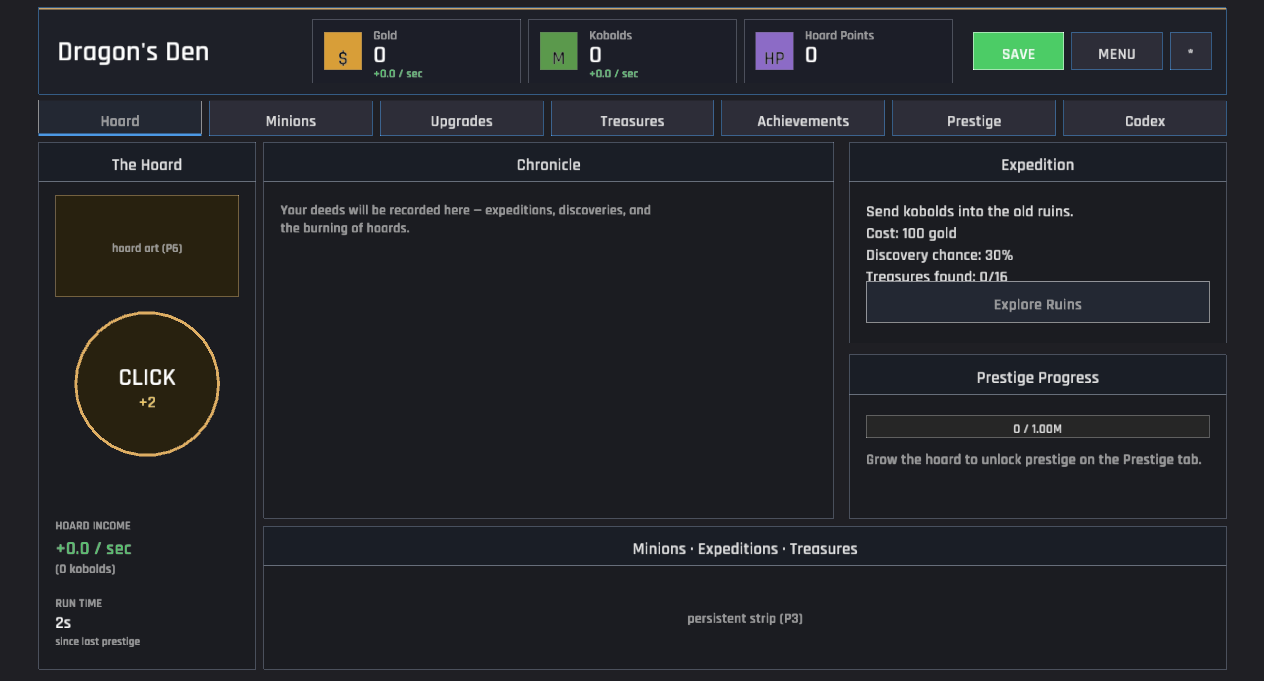
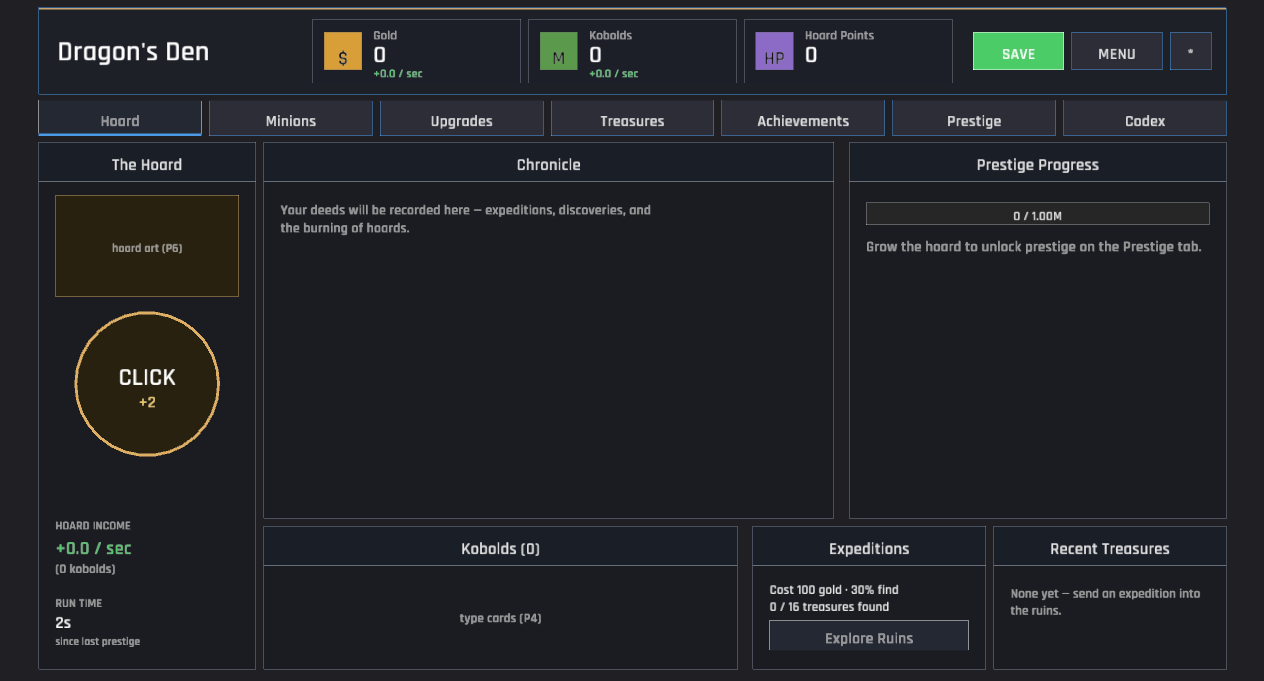
UI redesign P3: persistent bottom strip
Add ui/bottom_bar.rs: a persistent three-column strip — minions summary (typed
hire cards deferred to P4), the Expeditions launcher (moved off the Hoard tab so
it is reachable from any tab), and a Recent Treasures list (newest-first,
rarity-tagged via treasures::rarity_color). The Hoard tab side column is now just
Prestige Progress. Replaces the P1 bottom placeholder.

diff --git a/src/ui/bottom_bar.rs b/src/ui/bottom_bar.rs
@@ -1,0 +1,120 @@
+//! Persistent bottom strip (UI redesign P3 — see `UI_REDESIGN_PLAN.md`).
+//!
+//! Always visible under the center: a minions summary (type cards land in P4),
+//! the expedition launcher, and the most recent treasure finds.
+
+use crate::simulation::idle_number::format_amount;
+use crate::ui::treasures::rarity_color;
+use crate::ui::{self, GameplayCtx, UiAction};
+use macroquad::prelude::*;
+use macroquad_toolkit::prelude::*;
+use macroquad_toolkit::ui::draw_ui_text_ex;
+
+const GAP: f32 = 8.0;
+
+pub fn draw(ctx: &GameplayCtx<'_>, rect: Rect, actions: &mut Vec<UiAction>) {
+    let minions_w = rect.w * 0.5;
+    let col_w = (rect.w - minions_w - GAP * 2.0) / 2.0;
+    let minions = Rect::new(rect.x, rect.y, minions_w - GAP, rect.h);
+    let expeditions = Rect::new(rect.x + minions_w + GAP, rect.y, col_w, rect.h);
+    let treasures = Rect::new(expeditions.right() + GAP, rect.y, col_w, rect.h);
+
+    draw_minions_placeholder(ctx, minions);
+    draw_expeditions(ctx, expeditions, actions);
+    draw_recent_treasures(ctx, treasures);
+}
+
+/// Minion roster summary — the typed hire cards arrive in P4.
+fn draw_minions_placeholder(ctx: &GameplayCtx<'_>, rect: Rect) {
+    let content = ui::panel(
+        rect,
+        &format!(
+            "{} ({})",
+            ctx.data.config.minion_name_plural, ctx.state.run.goblins
+        ),
+    );
+    draw_text_centered_in_box(
+        "type cards (P4)",
+        content.x,
+        content.y + content.h / 2.0 - 10.0,
+        content.w,
+        20.0,
+        14.0,
+        dark::TEXT_DIM,
+    );
+}
+
+/// The expedition launcher (moved off the Hoard tab so it is always reachable).
+fn draw_expeditions(ctx: &GameplayCtx<'_>, rect: Rect, actions: &mut Vec<UiAction>) {
+    let content = ui::panel(rect, "Expeditions");
+    let cost = ctx.data.config.explore_cost;
+    let chance = ctx.state.discovery_chance(ctx.data);
+    let discovered = ctx.state.persistent.discovered_treasures.len();
+
+    draw_text_block(
+        &format!(
+            "Cost {} gold  ·  {:.0}% find\n{} / {} treasures found",
+            format_amount(cost),
+            chance * 100.0,
+            discovered,
+            ctx.data.treasures.len()
+        ),
+        content.x,
+        content.y + 2.0,
+        content.w,
+        34.0,
+        14.0,
+        4.0,
+        dark::TEXT,
+    );
+    if ui::button(
+        Rect::new(content.x, content.bottom() - 34.0, content.w, 32.0),
+        "Explore Ruins",
+        ctx.state.run.gold >= cost,
+        ButtonTone::Primary,
+        ctx.mouse,
+    ) {
+        actions.push(UiAction::Explore);
+    }
+}
+
+/// The last few discovered treasures, newest first, with a rarity tag.
+fn draw_recent_treasures(ctx: &GameplayCtx<'_>, rect: Rect) {
+    let content = ui::panel(rect, "Recent Treasures");
+    let discovered = &ctx.state.persistent.discovered_treasures;
+    if discovered.is_empty() {
+        draw_text_block(
+            "None yet — send an expedition into the ruins.",
+            content.x,
+            content.y + 6.0,
+            content.w,
+            48.0,
+            14.0,
+            4.0,
+            dark::TEXT_DIM,
+        );
+        return;
+    }
+
+    for (i, id) in discovered.iter().rev().take(3).enumerate() {
+        let Some(def) = ctx.data.treasure(id) else {
+            continue;
+        };
+        let y = content.y + 4.0 + i as f32 * 22.0;
+        draw_ui_text_ex(
+            &def.name,
+            content.x,
+            y + 15.0,
+            TextStyle::new(15.0, dark::TEXT).params(),
+        );
+        draw_text_centered_in_box(
+            def.rarity.label(),
+            content.right() - 78.0,
+            y,
+            76.0,
+            20.0,
+            12.0,
+            rarity_color(def.rarity),
+        );
+    }
+}

diff --git a/src/ui/hoard.rs b/src/ui/hoard.rs
@@ -8,7 +8,7 @@ use macroquad::prelude::*;
 use macroquad_toolkit::prelude::*;
 use macroquad_toolkit::ui::draw_ui_text_ex;
 
-pub fn draw(ctx: &GameplayCtx<'_>, rect: Rect, actions: &mut Vec<UiAction>) {
+pub fn draw(ctx: &GameplayCtx<'_>, rect: Rect, _actions: &mut Vec<UiAction>) {
     let left_w = rect.w * 0.6 - 8.0;
     let log = Rect::new(rect.x, rect.y, left_w, rect.h);
     let right = Rect::new(
@@ -19,7 +19,7 @@ pub fn draw(ctx: &GameplayCtx<'_>, rect: Rect, actions: &mut Vec<UiAction>) {
     );
 
     draw_action_log(ctx, log);
-    draw_side_column(ctx, right, actions);
+    draw_side_column(ctx, right);
 }
 
 /// A rolling list of recent events (GDD §9), newest at the top, complementing
@@ -65,47 +65,10 @@ fn draw_action_log(ctx: &GameplayCtx<'_>, rect: Rect) {
     }
 }
 
-fn draw_side_column(ctx: &GameplayCtx<'_>, rect: Rect, actions: &mut Vec<UiAction>) {
-    let expedition = Rect::new(rect.x, rect.y, rect.w, rect.h * 0.55 - 6.0);
-    let prestige = Rect::new(
-        rect.x,
-        rect.y + rect.h * 0.55 + 6.0,
-        rect.w,
-        rect.h * 0.45 - 6.0,
-    );
-
-    let content = ui::panel(expedition, "Expedition");
-    let cost = ctx.data.config.explore_cost;
-    let chance = ctx.state.discovery_chance(ctx.data);
-    let discovered = ctx.state.persistent.discovered_treasures.len();
-    draw_text_block(
-        &format!(
-            "Send {} into the old ruins.\nCost: {} gold\nDiscovery chance: {:.0}%\nTreasures found: {}/{}",
-            ctx.data.config.minion_name_plural.to_lowercase(),
-            format_amount(cost),
-            chance * 100.0,
-            discovered,
-            ctx.data.treasures.len()
-        ),
-        content.x,
-        content.y + 6.0,
-        content.w,
-        110.0,
-        17.0,
-        6.0,
-        dark::TEXT,
-    );
-    if ui::button(
-        Rect::new(content.x, content.bottom() - 48.0, content.w, 44.0),
-        "Explore Ruins",
-        ctx.state.run.gold >= cost,
-        ButtonTone::Primary,
-        ctx.mouse,
-    ) {
-        actions.push(UiAction::Explore);
-    }
-
-    let content = ui::panel(prestige, "Prestige Progress");
+/// Prestige progress overview. The expedition launcher now lives in the
+/// persistent bottom strip (`bottom_bar.rs`), so it is reachable from any tab.
+fn draw_side_column(ctx: &GameplayCtx<'_>, rect: Rect) {
+    let content = ui::panel(rect, "Prestige Progress");
     let threshold = ctx.state.prestige_threshold(ctx.data);
     meter(
         Rect::new(content.x, content.y + 8.0, content.w, 24.0),

diff --git a/src/ui/frame.rs b/src/ui/frame.rs
@@ -2,8 +2,8 @@
 //!
 //! Splits the logical screen into four regions — a header of resource cards, a
 //! persistent left hoard rail, a tab-swapped center, and a bottom strip — and
-//! draws the always-on chrome. Only the center changes per tab; the rail and
-//! bottom strip are placeholders here and get filled in P2/P3.
+//! draws the header chrome. Only the center changes per tab; the rail and bottom
+//! strip are drawn by their own modules (`left_rail.rs`, `bottom_bar.rs`).
 
 use crate::simulation::idle_number::{format_amount, format_rate};
 use crate::ui::{self, GameplayCtx, UiAction, LOGICAL_HEIGHT, LOGICAL_WIDTH};
@@ -177,18 +177,4 @@ fn resource_card(
             TextStyle::new(13.0, dark::POSITIVE).params(),
         );
     }
-}
-
-/// Placeholder for the persistent bottom strip (filled in P3).
-pub fn draw_bottom_placeholder(rect: Rect) {
-    let content = ui::panel(rect, "Minions · Expeditions · Treasures");
-    draw_text_centered_in_box(
-        "persistent strip (P3)",
-        content.x,
-        content.y + content.h / 2.0 - 12.0,
-        content.w,
-        24.0,
-        15.0,
-        dark::TEXT_DIM,
-    );
 }

diff --git a/src/ui.rs b/src/ui.rs
@@ -3,6 +3,7 @@
 //! `Game::apply_action` is the only place state changes.
 
 pub mod achievements;
+pub mod bottom_bar;
 pub mod dragons;
 pub mod frame;
 pub mod hoard;
@@ -94,7 +95,7 @@ pub fn draw_gameplay(
     frame::draw_header(&ctx, regions.header, &mut actions);
     draw_tab_bar(&ctx, regions.tabs, &mut actions);
     left_rail::draw(&ctx, regions.left_rail, &mut actions);
-    frame::draw_bottom_placeholder(regions.bottom);
+    bottom_bar::draw(&ctx, regions.bottom, &mut actions);
 
     let content = regions.center;
     match state.screen {

diff --git a/UI_REDESIGN_PLAN.md b/UI_REDESIGN_PLAN.md
@@ -120,8 +120,10 @@ New modules (each < 400 lines):
       hit-test), live Hoard Income, and Run Time (new save-safe `RunState::run_seconds`, ticked each frame, reset on
       prestige). Hoard tab reflowed to Chronicle + expedition/prestige column; click removed from `hoard.rs`.
       Verified: rail persists across tabs, run time accrues.
-- [ ] **P3 — Bottom strip.** Expeditions + Recent Treasures panels (read-only first), then minion-type cards once
-      P4 lands. *Verify captures.*
+- [x] **P3 — Bottom strip.** `ui/bottom_bar.rs`: persistent three-column strip — minions summary (type-card
+      placeholder for P4), the Expeditions launcher (moved off the Hoard tab, so it's reachable from any tab), and a
+      Recent Treasures list (newest-first, rarity-tagged, reusing `treasures::rarity_color`). Hoard tab side column
+      is now just Prestige Progress. Verified via captures.
 - [ ] **P4 — Typed minions.** `minions.json`, state migration (additive, save-safe), economy sum, Minions tab +
       bottom cards, hire `UiAction` per type. *Verify: hire raises rate; save round-trips.*
 - [ ] **P5 — Prestige tree.** Branch schema, `ui/prestige_tree.rs`, connectors + locks, Burn card, **Multipliers**
